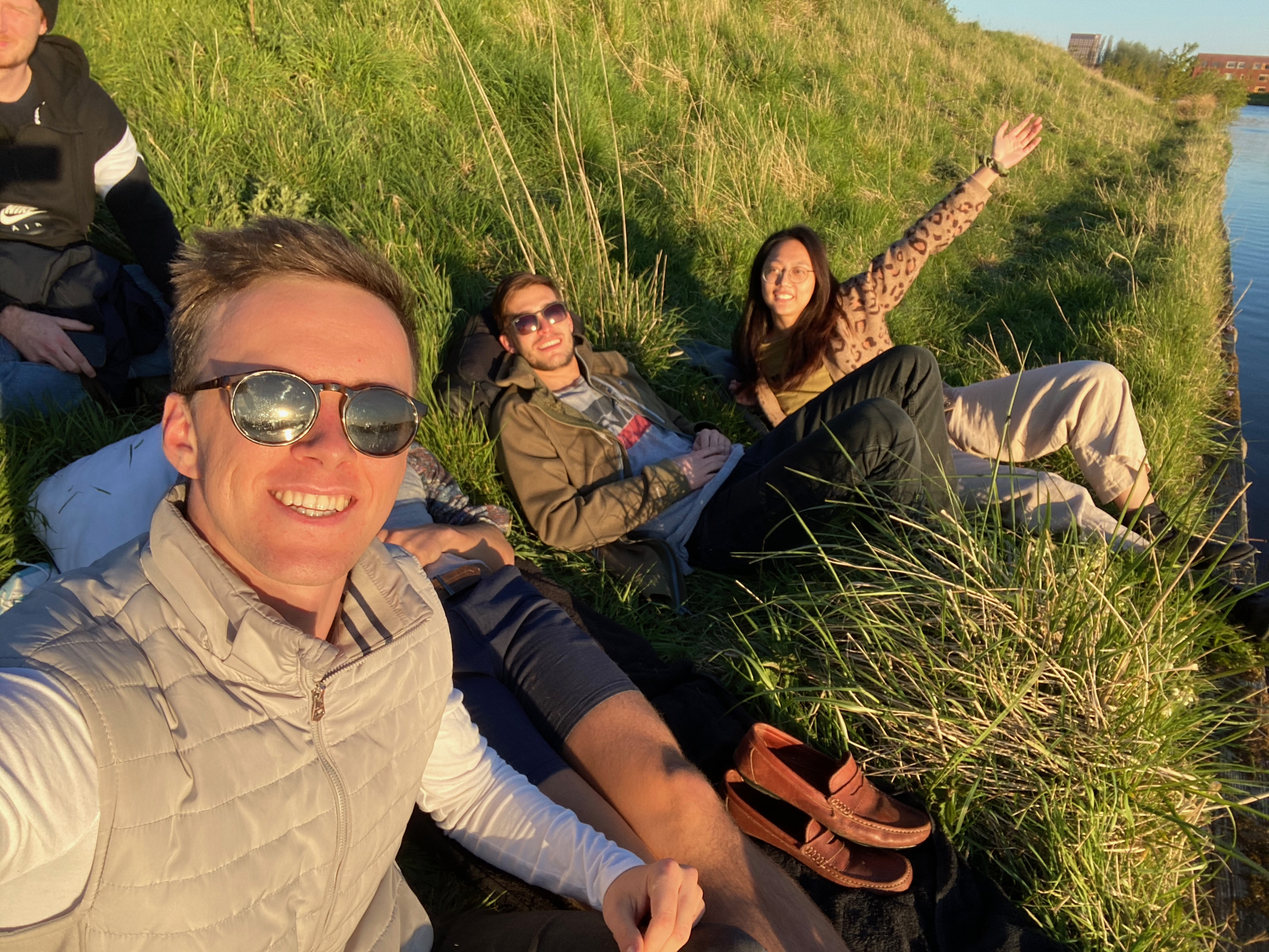
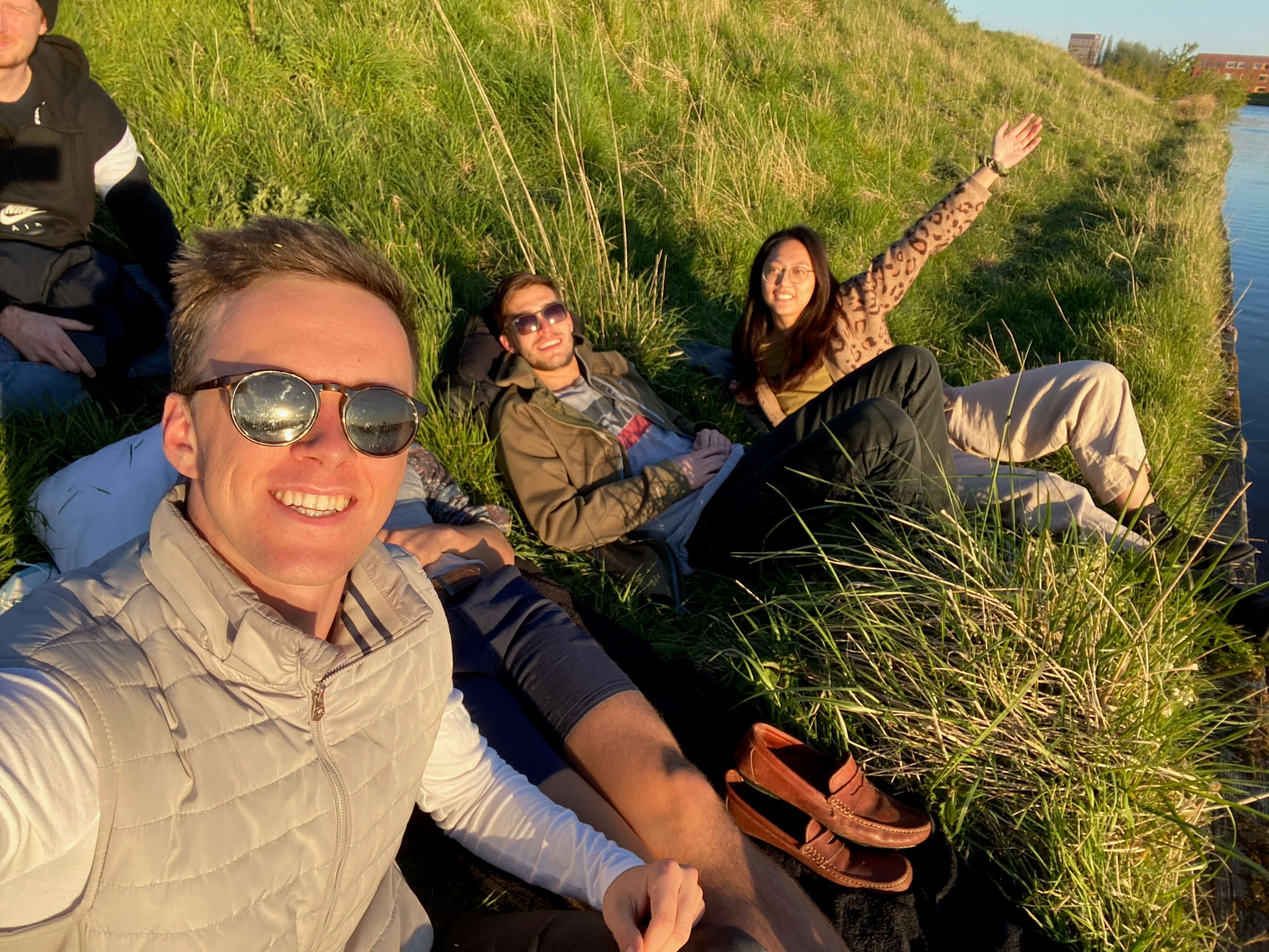
XTRA: Delete one photo, change another
Alex-Empadronado unused photo deleted
Had two boyhood film portrait photos. Changed to using one in all places
420 photo modified. To be deleted in next commit

diff --git a/src/components/film/Film.js b/src/components/film/Film.js
@@ -223,7 +223,7 @@ class FilmStuff extends React.Component {
                 director: 'Richard Linklater',
                 year: '2014',
                 img: <img alt="Boyhood" src="images/boyhood-poster.jpeg" height="70%" width="70%"/>,
-                imgPortrait: <img alt="Boyhood" src="images/boyhood-small.jpg" height="95%" width="95%"/>,
+                imgPortrait: <img alt="Boyhood" src="images/boyhood.jpg" height="95%" width="95%"/>,
                 description: ['Another one where the concept doesn’t do credit to how incredible the content and effect of this movie is. If you haven’t seen this movie already you’ve probably heard of it — a movie filmed over twelve years as the main actor grew from the age of 6 until 18. Although that’s a really awesome cinematic experiment to do, just saying it like that makes it sound a bit gimmicky, and just hearing that makes it difficult to understand how well this movie actually turned out. I think a LOT of credit has to go to writer–director Richard Linklater, whose insane levels of empathy and human understanding, as well as understanding of early–2000s culture, have led to a story which feels very representative of what it means to grow up during this century. I love how there’s no ‘plot’ — the kid just grows up, and experiences some really awesome, some really troubling, and some really regular times along the way, all of which seem so real, no doubt because Linklater paid such attuned attention to the lives of the actors and of his own kids as he was creating the movie, as well as to his own upbringing. Growing up a generation or two earlier allowed him to both emphasise the universal aspects of growing up as well as the specific elements of being a kid in the early 21st Century.'],
                 related: [
                     {
@@ -406,7 +406,7 @@ class FilmStuff extends React.Component {
                     {
                         title: 'Boyhood',
                         year: '2014',
-                        img: <img alt="Boyhood" src="images/boyhood-small.jpg" height="80%" width="80%" />
+                        img: <img alt="Boyhood" src="images/boyhood.jpg" height="80%" width="80%" />
                     },
                     {
                         title: 'Dazed and Confused',
